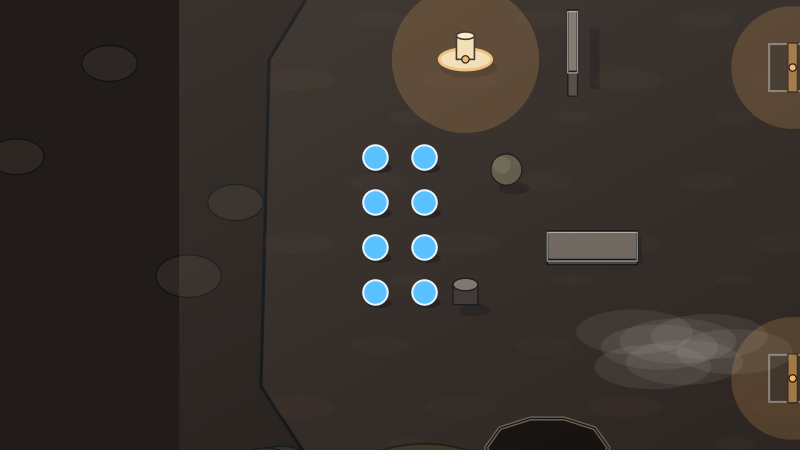
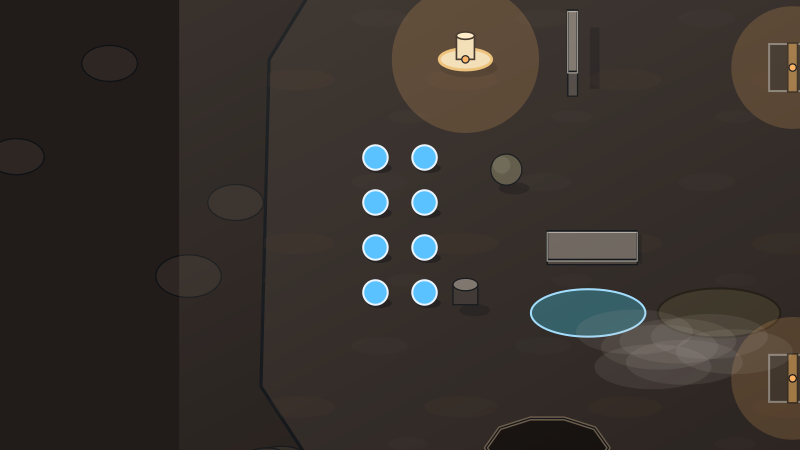
#3430: Scarred Earth: zones off the routes and craters, lanes reach the deck by a stair, stone off the NE stair

Changed region(s): [[0.6562, 0.6222, 0.8125, 0.7778]]

diff --git a/docs/art/3075-scarred-earth.md b/docs/art/3075-scarred-earth.md
@@ -42,7 +42,7 @@ battlefield: craters as pits, trenches as tunnels, wrecked siege towers as tower
   a pulled lever opens it for both. No lift is used. Two **breakable wrecked palisades**, a mirrored
   pair (x 950..974 and x 4426..4450, y 880..1030), each close a short-cut between the two lanes
   beside the shrine, 100 u or more off every route. Zones: a `mire` and a `spring` for each team,
-  the same on both sides (mire (600,2000), spring (600,700) west, mirrored east), off every route
+  the same on both sides (mire (1320,1620), spring (1000,1620) west, mirrored east), off every route
   and ≥ 200 u from a spawn and a shrine. Atmosphere (existing, #3032): three smoke banks, under
   bodies, never over a point, a stair or a lever. One `canopy` overhang (a toppled beam) off every
   route.
@@ -62,8 +62,8 @@ the gap the structure gives, not a promise about the final art.
 | Spawn to the great siege tower (T1 / T2) | Walk          |
 | ---------------------------------------- | ------------- |
 | west approach (up the hulk)              | 12.0 / 12.0 s |
-| south lane                               | 15.6 / 15.6 s |
-| north lane                               | 15.6 / 15.6 s |
+| south lane (west hull stair)             | 15.4 / 15.4 s |
+| north lane (west hull stair)             | 15.3 / 15.3 s |
 
 **Per capture point** (T1 to its own hulk = T2 to its own, the pair's mirror, gap 0 %):
 
@@ -73,7 +73,7 @@ the gap the structure gives, not a promise about the final art.
 | 4 / 5 own hulk, south | 13.2 s                 | 9.0 s      |
 | 2 / 1 far hulk, north | 23.8 s                 | 19.6 s     |
 | 5 / 4 far hulk, south | 23.8 s                 | 19.5 s     |
-| 3 great hulk (centre) | 12.0 s (west approach) | 15.6 s     |
+| 3 great hulk (centre) | 12.0 s (west approach) | 15.4 s     |
 
 A far hulk is a 19.5..23.8 s walk, under 25 s. **4v4 plays the whole map from 8v8's camps** (architect
 decision): no second spawn set; the fight with the centre is 12 s from a spawn.
